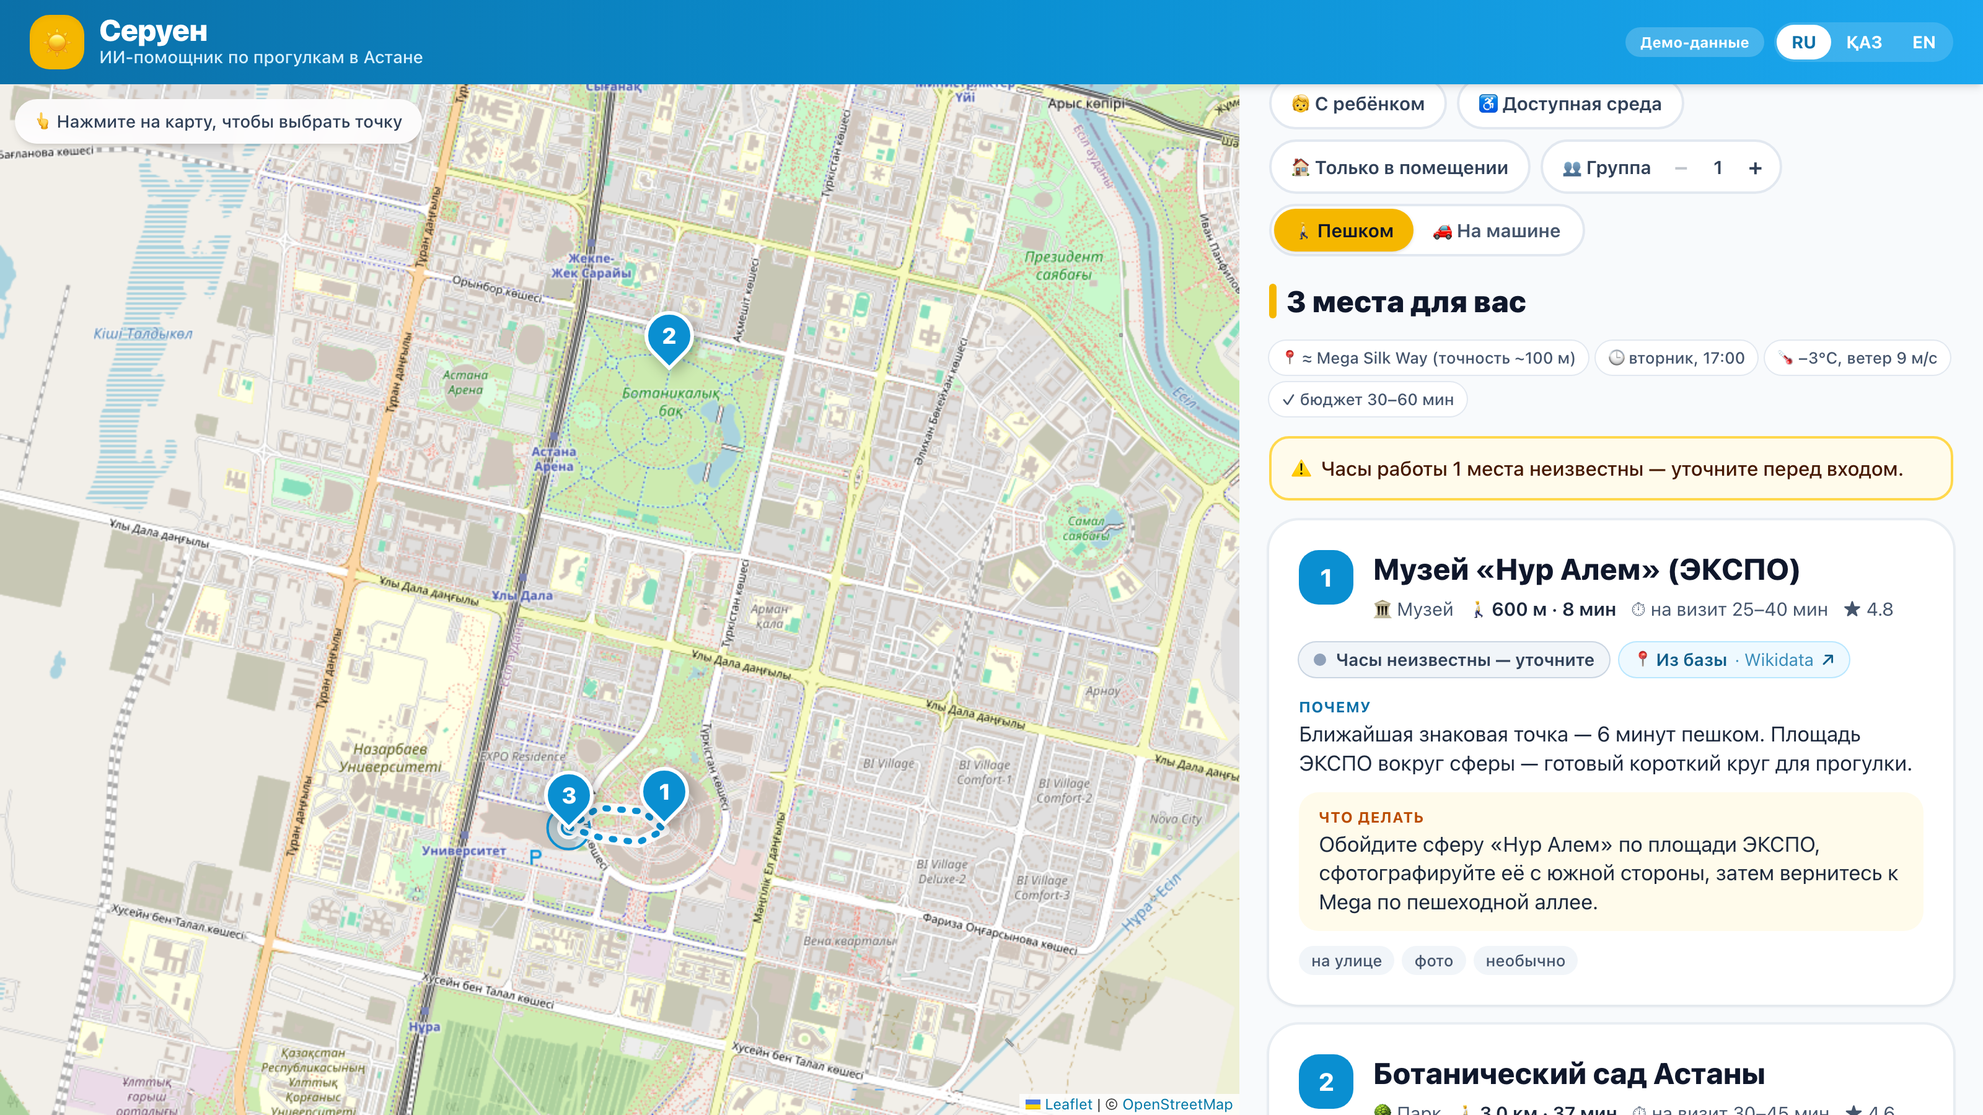
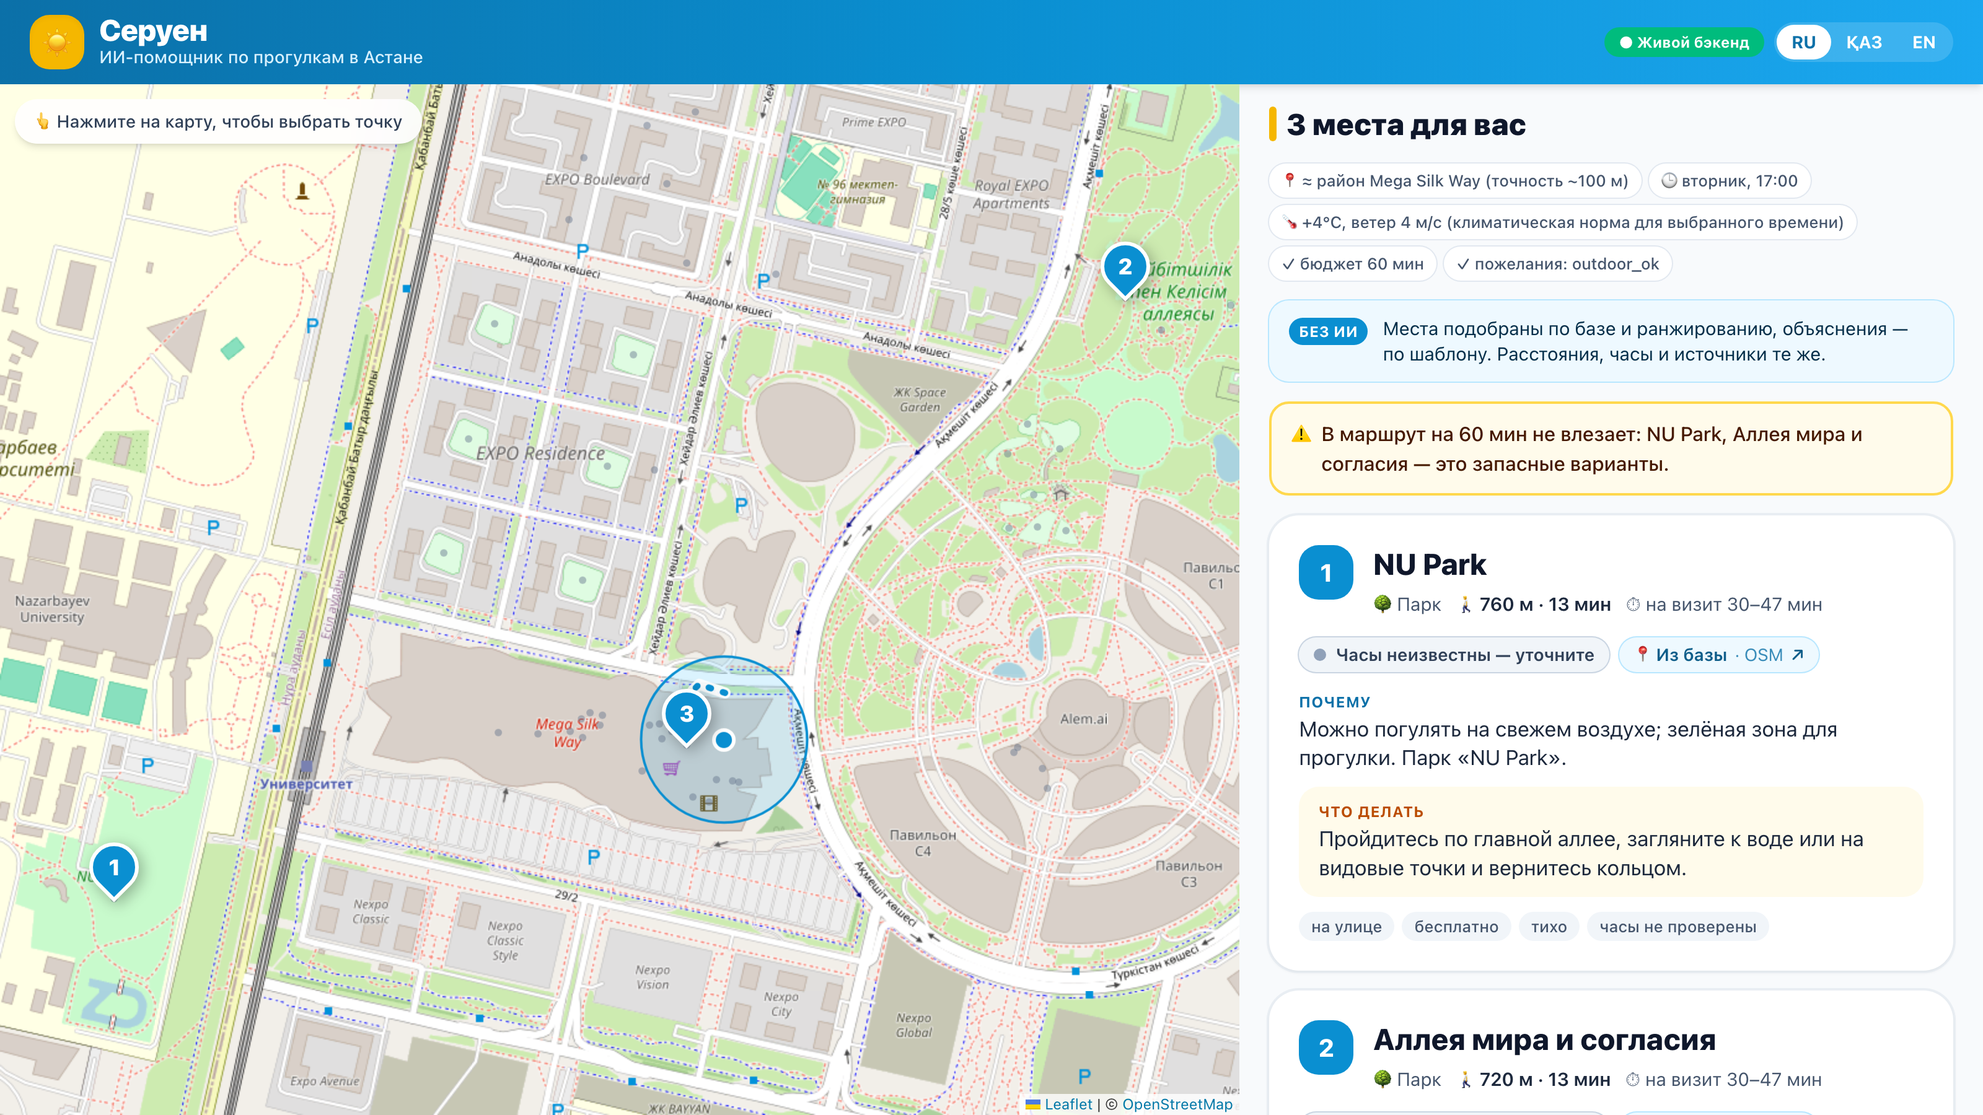
Интерфейс: переключатель зимы −20, мягкая плашка «Без ИИ», новые скриншоты; контекст Build with AI в TASK.md

diff --git a/frontend/src/i18n.ts b/frontend/src/i18n.ts
@@ -18,6 +18,7 @@ const ru = {
   accessibility: 'Доступная среда',
   group: 'Группа',
   indoorOnly: 'Только в помещении',
+  winter: 'Зима',
   walk: 'Пешком',
   car: 'На машине',
   myLocation: 'Моя геолокация',
@@ -63,7 +64,8 @@ const ru = {
   ctx_llm: 'Модель',
   errorTitle: 'Не получилось получить рекомендации',
   retry: 'Повторить',
-  degraded: 'Режим без ИИ: места подобраны ранжированием по базе, объяснения шаблонные.',
+  degradedTag: 'Без ИИ',
+  degraded: 'Места подобраны по базе и ранжированию, объяснения — по шаблону. Расстояния, часы и источники те же.',
   rating: 'рейтинг',
   resultsTitle: (n: number) => `${n} ${plural(n, ['место', 'места', 'мест'])} для вас`,
   noResults: 'Подходящих мест рядом не нашлось. Попробуйте увеличить время или сменить точку.',
@@ -90,6 +92,7 @@ const kk: Dict = {
   accessibility: 'Қолжетімді орта',
   group: 'Топ',
   indoorOnly: 'Тек ғимарат ішінде',
+  winter: 'Қыс',
   walk: 'Жаяу',
   car: 'Көлікпен',
   myLocation: 'Менің орным',
@@ -135,7 +138,8 @@ const kk: Dict = {
   ctx_llm: 'Модель',
   errorTitle: 'Ұсыныстарды алу мүмкін болмады',
   retry: 'Қайталау',
-  degraded: 'ЖИ-сіз режим: орындар база бойынша таңдалды, түсіндірмелер үлгі бойынша.',
+  degradedTag: 'ЖИ-сіз',
+  degraded: 'Орындар база мен рейтинг бойынша таңдалды, түсіндірмелер үлгі бойынша. Қашықтық, уақыт және дереккөздер сол күйі.',
   rating: 'рейтинг',
   resultsTitle: (n: number) => `Сізге ${n} орын`,
   noResults: 'Жақын жерде лайықты орын табылмады. Уақытты ұлғайтып немесе нүктені өзгертіп көріңіз.',
@@ -160,6 +164,7 @@ const en: Dict = {
   accessibility: 'Accessible',
   group: 'Group',
   indoorOnly: 'Indoor only',
+  winter: 'Winter',
   walk: 'On foot',
   car: 'By car',
   myLocation: 'My location',
@@ -205,7 +210,8 @@ const en: Dict = {
   ctx_llm: 'Model',
   errorTitle: 'Could not get recommendations',
   retry: 'Retry',
-  degraded: 'No-AI mode: places ranked from the database, explanations are templated.',
+  degradedTag: 'No AI',
+  degraded: 'Places picked by database ranking, explanations are templated. Distances, hours and sources are unchanged.',
   rating: 'rating',
   resultsTitle: (n: number) => `${n} ${n === 1 ? 'place' : 'places'} for you`,
   noResults: 'No suitable places nearby. Try a longer time budget or another point.',

diff --git a/frontend/src/components/Results.tsx b/frontend/src/components/Results.tsx
@@ -14,6 +14,7 @@ interface Props {
   focusIndex: number | null
 }
 
+const LLM_WARNING = /ИИ-модель|ЖИ модел|AI model|LLM/i
 const DEGRADED_PROVIDERS = ['none', 'fallback', 'template', 'ranking', 'degraded', 'off']
 
 export function isDegraded(r: RecommendResponse): boolean {
@@ -28,7 +29,9 @@ export default function Results({ result, t, lang, mode, hovered, onHover, focus
   const refs = useRef<(HTMLElement | null)[]>([])
   const recs = result.recommendations ?? []
   const ideas = result.ideas ?? []
-  const warnings = result.warnings ?? []
+  const degraded = isDegraded(result)
+  // Предупреждение «ИИ-модель недоступна» показываем мягкой плашкой, а не в жёлтом блоке.
+  const warnings = (result.warnings ?? []).filter((w) => !(degraded && LLM_WARNING.test(w)))
   const route = result.route
 
   useEffect(() => {
@@ -54,7 +57,8 @@ export default function Results({ result, t, lang, mode, hovered, onHover, focus
           {[
             result.context_used.location && `📍 ${result.context_used.location}`,
             result.context_used.time && `🕒 ${result.context_used.time}`,
-            result.context_used.weather && `🌡 ${result.context_used.weather}`,
+            result.context_used.weather &&
+              `${/симуляц|simulat/i.test(result.context_used.weather) ? '❄' : '🌡'} ${result.context_used.weather}`,
             ...(result.context_used.filters ?? []).slice(0, 2).map((f) => `✓ ${f}`),
             (result.context_used.filters?.length ?? 0) > 2 && `+${result.context_used.filters!.length - 2} ↓`,
           ]
@@ -66,8 +70,13 @@ export default function Results({ result, t, lang, mode, hovered, onHover, focus
             ))}
         </div>
       )}
-      {isDegraded(result) && (
-        <div className="rounded-2xl bg-slate-800 px-4 py-3 text-[15px] font-medium text-white">⚙ {t.degraded}</div>
+      {degraded && (
+        <div className="flex items-start gap-3 rounded-2xl bg-sky-50 px-4 py-3 ring-1 ring-sky-200">
+          <span className="mt-0.5 shrink-0 whitespace-nowrap rounded-full bg-sky-600 px-2 py-0.5 text-[12px] font-bold uppercase tracking-wide text-white">
+            {t.degradedTag}
+          </span>
+          <p className="text-[15px] leading-snug text-sky-950">{t.degraded}</p>
+        </div>
       )}
 
       {warnings.length > 0 && (

diff --git a/frontend/src/components/Controls.tsx b/frontend/src/components/Controls.tsx
@@ -1,6 +1,8 @@
 import type { Dict } from '../i18n'
 import { TIME_SLOTS, isoClock, type TimeSlot } from '../geo'
-import type { Mode } from '../types'
+import type { Mode, WeatherOverride } from '../types'
+
+export const WINTER: WeatherOverride = { temp_c: -20, wind_ms: 9 }
 
 export interface ControlsState {
   slot: TimeSlot
@@ -10,6 +12,7 @@ export interface ControlsState {
   groupSize: number
   indoorOnly: boolean
   mode: Mode
+  weather: WeatherOverride | null // симуляция погоды для демо (weather_override)
 }
 
 interface Props {
@@ -35,6 +38,8 @@ function Chip({ active, onClick, children }: { active: boolean; onClick: () => v
     </button>
   )
 }
+
+const formatTemp = (c: number) => `${c > 0 ? '+' : c < 0 ? '−' : ''}${Math.abs(c)}°`
 
 export default function Controls({ t, value, onChange, slotIso }: Props) {
   const set = (patch: Partial<ControlsState>) => onChange({ ...value, ...patch })
@@ -89,6 +94,9 @@ export default function Controls({ t, value, onChange, slotIso }: Props) {
         </Chip>
         <Chip active={value.indoorOnly} onClick={() => set({ indoorOnly: !value.indoorOnly })}>
           🏠 {t.indoorOnly}
+        </Chip>
+        <Chip active={!!value.weather} onClick={() => set({ weather: value.weather ? null : WINTER })}>
+          ❄ {t.winter} {formatTemp((value.weather ?? WINTER).temp_c)}
         </Chip>
         <div className="flex items-center gap-1 rounded-full border-2 border-slate-200 bg-white py-1 pl-4 pr-1 text-[15px] font-semibold text-slate-700">
           👥 {t.group}

diff --git a/frontend/src/components/ContextUsed.tsx b/frontend/src/components/ContextUsed.tsx
@@ -7,10 +7,10 @@ export default function ContextUsed({ result, t }: { result: RecommendResponse; 
   const rows: [string, string, string | undefined | null][] = [
     ['📍', t.ctx_location, c.location],
     ['🕒', t.ctx_time, c.time],
-    ['🌡', t.ctx_weather, c.weather],
+    [/симуляц|simulat|симуляция/i.test(c.weather ?? '') ? '❄' : '🌡', t.ctx_weather, c.weather],
     ['🚶', t.ctx_mode, c.mode],
     ['⭕', t.ctx_radius, c.radius_m ? `${(c.radius_m / 1000).toFixed(1).replace('.0', '')} км` : null],
-    ['🎚', t.ctx_filters, c.filters?.length ? c.filters.join(', ') : null],
+    ['✓', t.ctx_filters, c.filters?.length ? c.filters.join(', ') : null],
     ['🧠', t.ctx_intent, pi ? [pi.intent, ...(pi.keywords ?? [])].filter(Boolean).join(' · ') : null],
     ['🤖', t.ctx_llm, result.llm?.provider ? [result.llm.provider, result.llm.model].filter(Boolean).join(' / ') : null],
   ]

diff --git a/frontend/src/App.tsx b/frontend/src/App.tsx
@@ -37,6 +37,7 @@ const DEFAULT_CONTROLS: ControlsState = {
   groupSize: 1,
   indoorOnly: false,
   mode: 'walk',
+  weather: null,
 }
 
 export default function App() {
@@ -148,6 +149,7 @@ export default function App() {
       categories,
     },
     want_route: true,
+    ...(c.weather ? { weather_override: c.weather } : {}),
   })
 
   const submit = (q = query) => {
@@ -167,6 +169,7 @@ export default function App() {
       groupSize: f.group_size ?? 1,
       indoorOnly: !!f.indoor_only,
       mode: p.mode ?? (/airport|аэропорт/i.test(p.id + p.label) ? 'car' : 'walk'),
+      weather: p.weather_override ?? null,
     }
     const budget = f.time_budget_min ?? null
     const loc = { lat: p.location.lat, lon: p.location.lon }

diff --git a/frontend/src/api.ts b/frontend/src/api.ts
@@ -89,6 +89,11 @@ async function mockRecommend(req: RecommendRequest, presetId?: string): Promise<
     time: `${day}, ${isoClock(req.client_time)}`,
     mode: req.mode === 'car' ? 'на машине' : 'пешком',
   }
+  if (req.weather_override) {
+    const { temp_c, wind_ms } = req.weather_override
+    const temp = `${temp_c > 0 ? '+' : temp_c < 0 ? '−' : ''}${Math.abs(temp_c)}°C`
+    base.context_used.weather = `${temp}${wind_ms != null ? `, ветер ${wind_ms} м/с` : ''} (симуляция)`
+  }
   const speed = req.mode === 'car' ? 500 : 80 // м/мин
   for (const r of base.recommendations) {
     const d = Math.round(haversineM(req.location, r) * 1.3)

diff --git a/frontend/src/types.ts b/frontend/src/types.ts
@@ -17,6 +17,11 @@ export interface Filters {
   categories?: string[]
 }
 
+export interface WeatherOverride {
+  temp_c: number
+  wind_ms?: number
+}
+
 export interface RecommendRequest {
   query: string
   location: LatLon
@@ -26,6 +31,7 @@ export interface RecommendRequest {
   mode: Mode
   filters: Filters
   want_route: boolean
+  weather_override?: WeatherOverride
 }
 
 export interface ContextUsed {
@@ -120,6 +126,7 @@ export interface Preset {
   filters?: Filters
   icon?: string
   mode?: Mode
+  weather_override?: WeatherOverride | null
 }
 
 export interface ApiErrorBody {

diff --git a/frontend/README.md b/frontend/README.md
@@ -21,12 +21,12 @@ npm run dev            # http://localhost:5173, прокси /api → http://loc
 
 ## Что на экране
 - **Карта** (слева; на мобиле сверху): точка пользователя с кругом ~100 м, нумерованные маркеры 1–3, линия маршрута (`route.geometry`, иначе — прямые между остановками), клик по карте = новая локация, серые точки POI из `/api/pois`.
-- **Панель**: запрос (Enter — отправить), история запросов в сессии, кнопки пресетов из `/api/presets` (клик = локация + время + фильтры + запрос и сразу отправка), ползунок времени (сейчас / утро / день / вечер / ночь 23:30), фильтры 🧒 ♿ 👥 🏠, пешком/на машине, язык RU/ҚАЗ/EN (смена языка перезапрашивает ответ).
+- **Панель**: запрос (Enter — отправить), история запросов в сессии, кнопки пресетов из `/api/presets` (клик = локация + время + фильтры + запрос и сразу отправка), ползунок времени (сейчас / утро / день / вечер / ночь 23:30), фильтры 🧒 ♿ 👥 🏠 ❄, пешком/на машине, язык RU/ҚАЗ/EN (смена языка перезапрашивает ответ).
 - **Карточки**: название, категория, расстояние/время в пути, время на визит, «Почему», «Что делать», бейдж статуса работы по уверенности (зелёный / жёлтый / серый / красный) и бейдж источника «📍 Из базы · OSM/Wikidata» со ссылкой. Наведение на карточку подсвечивает маркер, клик по маркеру прокручивает к карточке.
 - **«💡 Идея ИИ»** — отдельный блок для `ideas` с пометкой «не проверено по базе».
 - **Мини-маршрут**: «N места · X мин · Y км» и шаги.
 - **«Что учтено»**: краткие чипы над карточками + полный раскрывающийся блок из `context_used` / `parsed_intent` / `llm` с примечанием о приватности.
-- `warnings` — жёлтая плашка; режим деградации (`llm.provider = "none"`) — тёмная плашка «Режим без ИИ».
+- `warnings` — жёлтая плашка; режим деградации (`llm.provider = "none"`) — мягкая голубая плашка «Без ИИ», а дублирующее предупреждение «ИИ-модель недоступна» убирается из жёлтого блока.
 - Состояния: скелетоны при загрузке, ошибка с кнопкой «Повторить», пустое состояние с подсказкой.
 
 ## Приватность
@@ -37,8 +37,9 @@ npm run dev            # http://localhost:5173, прокси /api → http://loc
 ## Для демо и видео
 - Deep-link: `http://localhost:5173/?preset=<id>&lang=kk` — сразу запускает сценарий (id из `/api/presets`).
 - `?static=1` — без анимаций карты (для скриншотов).
-- Скриншоты для слайдов: `bash scripts/screenshots.sh [preset1] [preset2] [preset3] [preset4]` → `screenshots/*.png` (нужен Google Chrome и запущенный `npm run dev`).
-  Текущие скриншоты сняты на моках. Для живого бэкенда: `bash scripts/screenshots.sh megasilkway_walk night_unusual kids airport_2h`.
+- Скриншоты для слайдов: `bash scripts/screenshots.sh` (живой бэкенд) или `bash scripts/screenshots.sh mock` → `screenshots/*.png` (нужен Google Chrome и запущенный `npm run dev`). Текущие сняты на живом бэкенде; если включить LLM, их стоит переснять — уйдёт плашка «Без ИИ».
+- **❄ Зима −20°** — переключатель симуляции погоды: отправляет `weather_override: {"temp_c": -20, "wind_ms": 9}`. Пресет с `weather_override` (например, «Зимний вечер») включает его сам; в «Что учтено» погода помечена «(симуляция)».
+- Пресеты могут нести `mode` и `icon` — фронт их использует.
 
 ## Структура
 ```

diff --git a/docs/TASK.md b/docs/TASK.md
@@ -1,5 +1,7 @@
 # Задание хакатона (НИЦ Smart City): «ИИ-помощник по прогулкам в городе Астана»
 
+Хакатон **Build with AI**. Организатор — Школа ИИ и науки о данных; партнёры задач — НИЦ Smart City и GDG Astana (Google Developer Groups). Наша задача — №1 (НИЦ Smart City). Задача №2 (GDG, CampusPulse AI: MCP + Vertex AI Reasoning Engine) к нам не относится. Так как событие гугловое, в финале используем Gemini.
+
 На входе — набор данных по POI города с короткими описаниями. Нужно придумать и показать рабочую RAG-систему (концепция + демо), которая в реальном времени подсказывает пользователю, куда сходить и что сделать в зависимости от текущей локации, предпочтений и контекста.
 
 **Датасет команда собирает сама, сбор должен быть автоматизирован.**
